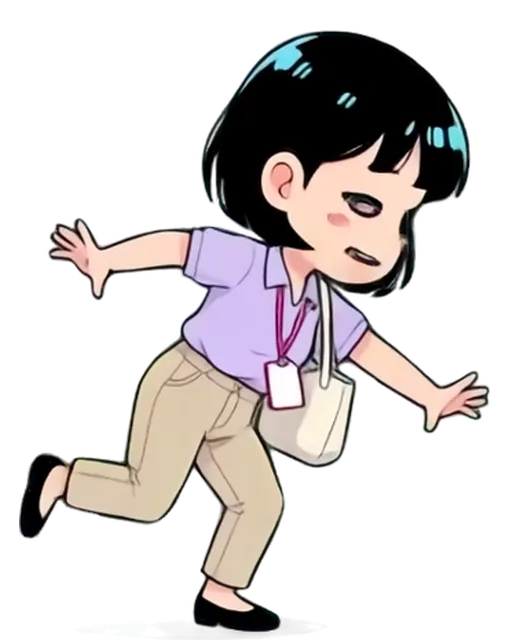
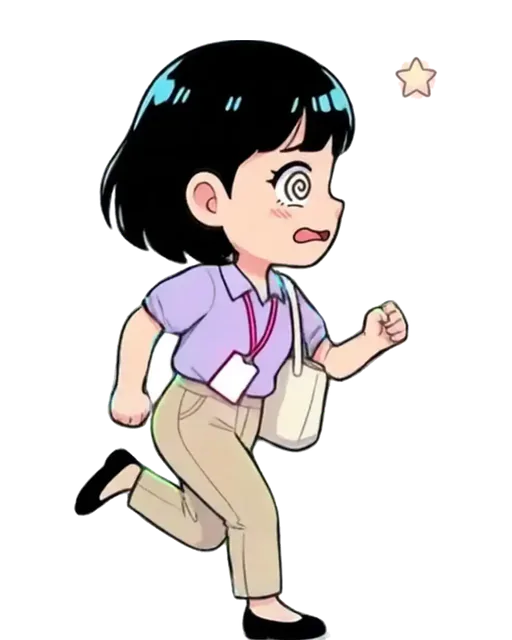
art(office): right-facing hit poses for both heroes (still + hit2-4)
The old hit stills and hit3/hit4 turned toward the camera/left, which read as the hero looking back when struck.

diff --git a/public-office/art/SOURCES.md b/public-office/art/SOURCES.md
@@ -220,3 +220,18 @@ Cut out locally, then placed so its opaque box has the same height, bottom and c
 - `collect-envelope.webp` regenerated as a mint gift card with a gold ribbon (was a golden envelope identical to the hazard `prop-envelope`).
 - `prop-colleague.webp` (high-five coworker for the 돌발 highfive event): nano_banana_flash — $STYLE. Single full-body chibi character, 2.5 heads tall, on a pure flat white background, no ground, no shadow, no speed lines, nothing else. A cheerful young Korean office coworker (friendly man with short wavy brown hair, light-blue shirt with rolled sleeves, grey slacks, blank ID badge on a teal lanyard), side three-quarter view facing RIGHT, standing and raising one open hand high for a high-five, big happy grin, full body head to toe. Cut out locally, 512×640, 615 px tall, feet at y=639, centred (same anchor as the heroes).
 - `pickup-heart.webp` regenerated 2026-11-02 (white rice body with a face, green band at the bottom only) — the dark-seaweed version read as a ⚠ sign at 30 px.
+
+## Hit facing fix (2026-11-02, branch fix/office-hero-facing)
+
+`hero-{kid,cat}-{hit,hit3,hit4}.webp` regenerated strictly right-facing: nano_banana_flash edit with the shipped `hit1` (on white) as the reference; cut out locally, 512×640, 600 px tall, feet at y=639, centred, `cwebp -q 82`.
+
+| file | prompt |
+|---|---|
+| `hero-kid-hit.webp` | $STYLE. Same exact character, outfit, colors, proportions, size and line style as the reference image, INCLUDING his mint-green necktie flying behind him and his round glasses. Strict side profile facing RIGHT exactly like the reference: nose, face and eyes point to the RIGHT edge of the image; never turn toward the viewer, never face left. Single character only, full body head to toe, pure flat white background, no ground, no shadow, no speed lines, no objects. Comic dizzy stumble: body leaning back to the left off balance, one foot lifted, arms flailing, spiral dizzy eyes behind the glasses, little stars circling above the head. |
+| `hero-kid-hit3.webp` | $STYLE. Same exact character, outfit, colors, proportions, size and line style as the reference image. Strict side profile facing RIGHT exactly like the reference: nose, face and eyes point to the RIGHT edge of the image; never turn toward the viewer, never show the face front-on, never face left. Single character only, full body head to toe, pure flat white background, no ground, no shadow, no speed lines, no objects. Comic dizzy wobble: knees bent and wobbly, torso swaying back, arms out for balance, spiral dizzy eyes in profile, small stars above the head. |
+| `hero-kid-hit4.webp` | $STYLE. Same exact character, outfit, colors, proportions, size and line style as the reference image, INCLUDING his mint-green necktie flying behind him and his round glasses. Strict side profile facing RIGHT exactly like the reference: nose, face and eyes point to the RIGHT edge of the image; never turn toward the viewer, never face left. Single character only, full body head to toe, pure flat white background, no ground, no shadow, no speed lines, no objects. Recovering from the stumble: regaining balance and leaning forward to the right ready to run, slightly dazed face, one small star fading above the head. |
+| `hero-cat-hit.webp` | $STYLE. Same exact character, outfit, colors, proportions, size and line style as the reference image. Strict side profile facing RIGHT exactly like the reference: nose, face and eyes point to the RIGHT edge of the image; never turn toward the viewer, never show the face front-on, never face left. Single character only, full body head to toe, pure flat white background, no ground, no shadow, no speed lines, no objects. Comic dizzy stumble: body leaning back to the left off balance, one foot lifted, arms flailing, spiral dizzy eyes in profile, little stars circling above the head. |
+| `hero-cat-hit3.webp` | $STYLE. Same exact character, outfit, colors, proportions, size and line style as the reference image. Strict side profile facing RIGHT exactly like the reference: nose, face and eyes point to the RIGHT edge of the image; never turn toward the viewer, never show the face front-on, never face left. Single character only, full body head to toe, pure flat white background, no ground, no shadow, no speed lines, no objects. Comic dizzy wobble: knees bent and wobbly, torso swaying back, arms out for balance, spiral dizzy eyes in profile, small stars above the head. |
+| `hero-cat-hit4.webp` | $STYLE. Same exact character, outfit, colors, proportions, size and line style as the reference image. Strict side profile facing RIGHT exactly like the reference: nose, face and eyes point to the RIGHT edge of the image; never turn toward the viewer, never show the face front-on, never face left. Single character only, full body head to toe, pure flat white background, no ground, no shadow, no speed lines, no objects. Recovering from the stumble: regaining balance and leaning forward to the right again ready to run, slightly dazed face in profile, one small star fading above the head. |
+| `hero-kid-hit2.webp` (redo) | $STYLE. Same exact character, outfit, colors, proportions, size and line style as the reference image, INCLUDING his mint-green necktie, round glasses, orange backpack and his orange-and-white sneakers (exactly the reference shoe colors). Strict side profile facing RIGHT exactly like the reference: nose, face and eyes point to the RIGHT edge of the image; never turn toward the viewer, never face left. Single character only, full body head to toe, pure flat white background, no ground, no shadow, no speed lines, no objects. Comic hit reaction: jolted backward mid-run, head snapped back slightly, mouth open in a surprised 'oof', a sweat drop, arms flung back, still in side profile looking right. |
+| `hero-kid-hit3.webp` (redo) | $STYLE. Same exact character, outfit, colors, proportions, size and line style as the reference image, INCLUDING his mint-green necktie, round glasses, orange backpack and his orange-and-white sneakers (exactly the reference shoe colors). Strict side profile facing RIGHT exactly like the reference: nose, face and eyes point to the RIGHT edge of the image; never turn toward the viewer, never face left. Single character only, full body head to toe, pure flat white background, no ground, no shadow, no speed lines, no objects. Comic dizzy wobble: knees bent and wobbly, torso swaying back, arms out for balance, spiral dizzy eyes behind the glasses, small stars above the head. |
